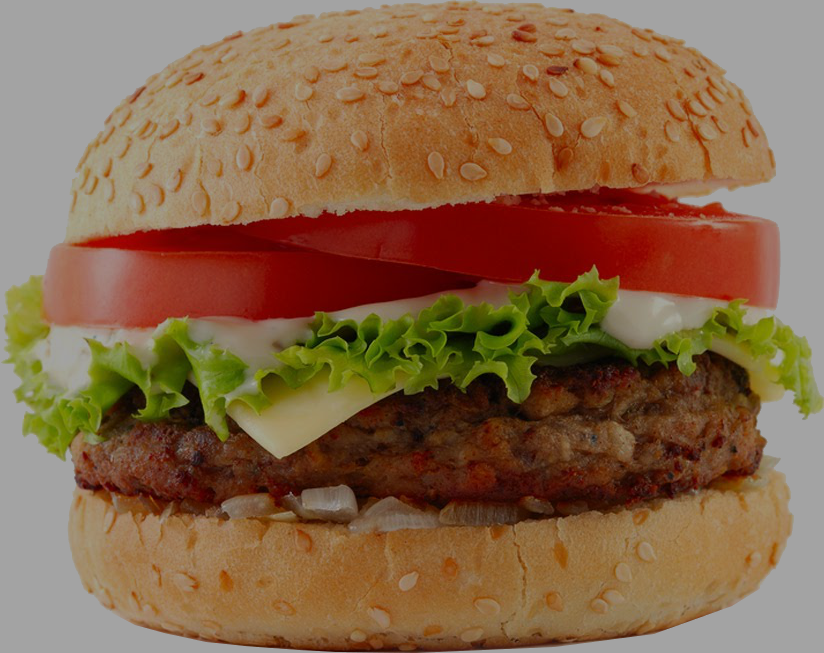
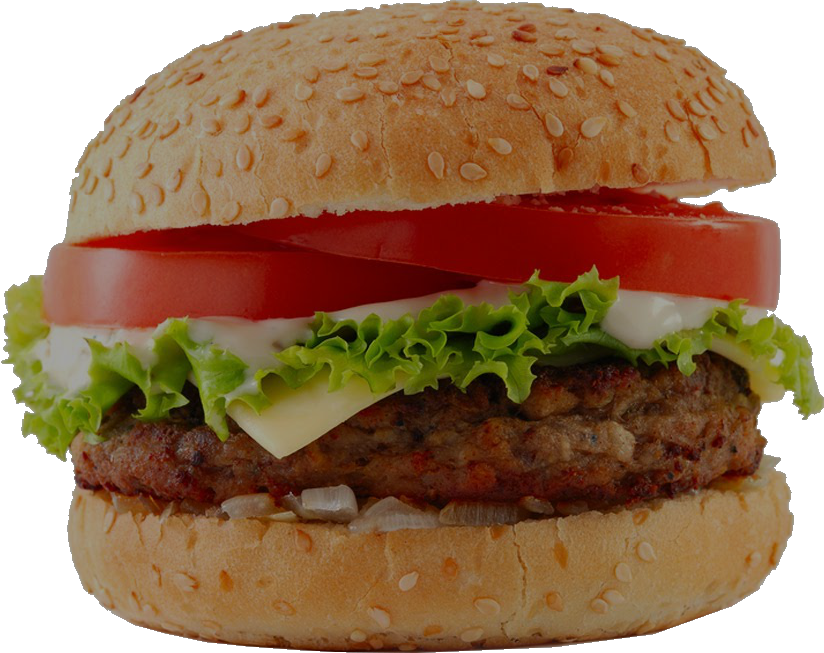
arreglar fotos transparentes y cambiar la contraseña

Changed region(s): [[0.0, 0.0, 0.5461, 1.0], [0.5461, 0.0, 1.0, 1.0]]

diff --git a/application/models/Usuario_model.php b/application/models/Usuario_model.php
@@ -293,7 +293,7 @@ class Usuario_model extends CI_Model
     public function editPassword($aliasUsuarioActual,$oldPassword,$newPassword,$newPasswordR){
         $user = R::load("usuario",$this->getUserId($aliasUsuarioActual));
         if(md5($oldPassword)==$user["password"] && $newPassword == $newPasswordR){
-            $user["password"]=$newPassword;
+            $user["password"]=md5($newPassword);
             R::store($user);
             return true;
         }
